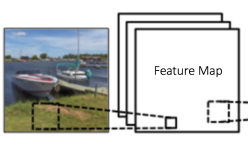
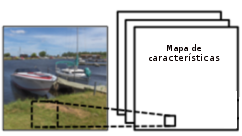
tercera revision

diff --git a/secciones/MarcoTeorico.tex b/secciones/MarcoTeorico.tex
@@ -495,23 +495,15 @@ El modelo obtenido debe aprender a generalizar el comportamiento de modo que al 
 
 Las \ac{cnn} son una clase de redes neuronales  similares a las redes neuronales multicanal, su principal ventaja es que cada parte de la red se le entrena para realizar una tarea, esto reduce significativamente el número de capas, por lo que el entrenamiento es más rápido. Las redes neuronales convolucionales son muy potentes para el análisis de imágenes, debido a que son capaces de detectar características simples como por ejemplo detención de bordes, lineas, etc y componer en características más complejas. Las \ac{cnn} trabajan modelando de forma consecutiva pequeñas piezas de información (sub-regiones) de la imagen; combinando esta información de salida en las capas mas profundas, tales características pude ser fusionada pre-procesando con el fin de detectar características de mayor orden \citep{murphy}.
 
-El conjunto de salidas de las neuronas en un plano se denomina \textit{mapa de características} (ver \ref{Fig: fmaps}). Cada unidad  del mapa de característica es lo que llamamos  \textit{\textbf{feature vector}}. Una capa convolucional completa está compuesta de varios mapas de características (con diferentes 
+El conjunto de salidas de las neuronas en un plano se denomina \textit{mapa de características}. Cada unidad  del mapa de característica es lo que llamamos  \textit{\textbf{feature vector}}. Una capa convolucional completa está compuesta de varios mapas de características (con diferentes 
 \textit{feature vector}), de modo que se pueden extraer múltiples características en cada ubicación \citep{cnns}.
 
-\begin{figure}[H]
- \centering
-  \includegraphics[scale=1,keepaspectratio=true,clip=true]{imagenes/MarcoTeorico/fmaps.png}
-  \caption{Ejemplo de mapa de características, (Adaptado de: \citep{cnnsarticle})}
-	\label{Fig: fmaps}
-\end{figure}
+El tamaño del mapa de características se controla mediante tres parámetros \citep{cnnsarticle}: \textit{depth (profundidad)}: corresponde al numero de filtros usados para la operación de convolución como veremos mas adelante (Sec:\ref{sub:convolucion}); por ejemplo la primera capa toma la imagen original, luego diferentes neuronas a partir de la profundidad de la red se activa realizando operaciones como puede ser detección de bordes, color, etc.También tenemos el parámetro \textit{stride (paso)}: es el número de píxeles por los que se desliza nuestra matriz de filtro sobre la matriz de entrada. Tener un stride grande producirá mapas de características más pequeños. Por ultimo tenemos el parámetro \textit{zero-padding (cero-relleno)}, a menudo es conveniente rellenar la matriz de entrada con ceros alrededor del borde, de modo que podamos aplicar el filtro a los elementos fronterizos de nuestra matriz de imagen de entrada; una buena característica de cero relleno es que nos permite controlar el tamaño de los mapas de características.
 
-El tamaño del mapa de características se controla mediante tres parámetros \citep{cnnsarticle}: \textit{depth (profundidad)}: corresponde al numero de filtros usados para la operación de convolución como veremos mas adelante (Sec:\ref{sub:convolucion}). Por ejemplo la primera capa toma la imagen original, luego diferentes neuronas a partir de la profundidad de la red se activa realizando operaciones como puede ser detección de bordes, color, etc; es decir a partir de la imagen de entrada aplicar por ejemplo detección de bordes, color, etc.También tenemos el parámetro \textit{stride (paso)}: es el número de píxeles por los que se desliza nuestra matriz de filtro sobre la matriz de entrada. Tener un stride grande producirá mapas de características más pequeños. Por ultimo tenemos el parámetro \textit{zero-padding (cero-relleno)}: A menudo, es conveniente rellenar la matriz de entrada con ceros alrededor del borde, de modo que podamos aplicar el filtro a los elementos fronterizos de nuestra matriz de imagen de entrada. Una buena característica de cero relleno es que nos permite controlar el tamaño de los mapas de características.
+La mayoría de las \ac{cnn} tienen arquitecturas similares como se muestra en la figura \ref{Fig:cnn_network}, donde hay una operación de entrada de una imagen, una serie de operaciones de  \textit{convolucion} mas  \textit{pooling} seguidas de las ultimas capas \textit{fully conected}; en las próximas secciones se entrara mas detalle. 
 
-La mayoría de las \ac{cnn} tienen arquitecturas similares como se muestra en la figura \ref{Fig:cnn_network}, donde hay una operación de entrada de una imagen, una serie de operaciones de  \textit{convolucion} mas  \textit{pooling} seguidas de las ultimas capas \textit{fully conected}; en las próximas secciones se brindara mas detalle. 
-
-\begin{figure}[H]
- \centering
-  \includegraphics[scale=0.15,keepaspectratio=true,clip=true]{imagenes/MarcoTeorico/cnn_intuition.png}
+\begin{figure}[H]\centering
+  \includegraphics[scale=0.2,keepaspectratio=true,clip=true]{imagenes/MarcoTeorico/cnn_intuition.png}
   \caption{Arquitectura simplificada CNN \\ (Adaptado de:https://towardsdatascience.com/understanding-input-and-output-shapes-in-convolution).} \label{Fig:cnn_network}
 \end{figure}
 
@@ -522,7 +514,7 @@ La mayoría de las \ac{cnn} tienen arquitecturas similares como se muestra en la
 
 \subsubsection{Convolución}\label{sub:convolucion}
 %https://www.superdatascience.com/blogs/convolutional-neural-networks-cnn-step-1-convolution-operation
-Las principales operaciones de una \ac{cnn} están basadas en operaciones de convolución \ref{eq:conv2}, la convolución son operaciones de producto y sumas entre las capas y los $n $ filtros (kernel) que generan como se mencionó anteriormente, un mapa de característica. La ventaja es que el mismo filtro permite extraer la misma característica en cualquier parte de la entrada, con esto se consigue reducir el número de conexiones y el número de parámetros a entrenar.
+Las principales operaciones de una \ac{cnn} están basadas en operaciones de convolución \ref{eq:conv2}, la convolución son operaciones de producto y sumas entre las capas y los $n $ filtros (kernel) que generan  un mapa de característica como se mencionó anteriormente. La ventaja es que el mismo filtro permite extraer la misma característica en cualquier parte de la entrada, con esto se consigue reducir el número de conexiones y el número de parámetros a entrenar.
 
 \begin{equation}\label{eq:conv2}
     G[i, j] = \sum_{u=-k}^k \sum_{v=-k}^k H[u, v] F[i-u, j-v]
@@ -582,7 +574,7 @@ Una vez que los \textit{mapas de característica} se extraen de la capa de convo
 
 \begin{figure}[H]
  \centering
-  \includegraphics[scale=0.2,keepaspectratio=true,clip=true]{imagenes/MarcoTeorico/ReLU_1.png}
+  \includegraphics[scale=0.25,keepaspectratio=true,clip=true]{imagenes/MarcoTeorico/ReLU_1.png}
   \caption{ReLU (Rectified Linear Unit) \\ (Adaptado de: https://towardsdatascience.com/activation-functions-neural-networks)} \label{Fig:relu}
 \end{figure}
 
@@ -617,7 +609,7 @@ Básicamente, una capa \textit{fully conected} observa características de alto 
 
 \begin{figure}[H]
  \centering
-  \includegraphics[height=5cm,keepaspectratio=true,clip=true]{imagenes/MarcoTeorico/fully_conected.png}
+  \includegraphics[scale=1,keepaspectratio=true,clip=true]{imagenes/MarcoTeorico/fully_conected.png}
   \caption{Fully conected layer \\ (Adaptado de: https://adeshpande3.github.io)} \label{Fig:fully_conected}
 \end{figure}
 
@@ -636,7 +628,7 @@ La arquitectura de una red neuronal es la forma en que se organizan  las neurona
 
 \begin{figure}[H]
  \centering
-  \includegraphics[scale=0.3,keepaspectratio=true,clip=true]{imagenes/MarcoTeorico/AlexNet-1.png}
+  \includegraphics[scale=0.4,keepaspectratio=true,clip=true]{imagenes/MarcoTeorico/AlexNet-1.png}
   \caption{Arquitectura AlexNet \\ (Adaptado de: \citep{alexnet})}
 	\label{Fig:alexnet}
 \end{figure}
@@ -646,7 +638,7 @@ La arquitectura de una red neuronal es la forma en que se organizan  las neurona
 
 \begin{figure}[H]
  \centering
-  \includegraphics[scale=0.4,keepaspectratio=true,clip=true]{imagenes/MarcoTeorico/vgg.png}
+  \includegraphics[scale=0.6,keepaspectratio=true,clip=true]{imagenes/MarcoTeorico/vgg.png}
   \caption{Arquitectura VGG,\\ (Adaptado de: \citep{vgg}).}
 	\label{Fig:vgg}
 \end{figure}
@@ -654,7 +646,7 @@ La arquitectura de una red neuronal es la forma en que se organizan  las neurona
 \par \textbf{GoogleNet} \citep{googlenet} EL principal objetivo de esta arquitectura desarrollada es mejorar la utilización de recursos computacionales, esto lo logra definiendo módulos llamados, \textit{módulos inception}, y aumentando la profundidad y el ancho de la red. 
 \begin{figure}[H]
  \centering
-  \includegraphics[height=5cm,keepaspectratio=true,clip=true]{imagenes/MarcoTeorico/inception-1.jpg}
+  \includegraphics[scale=0.5,keepaspectratio=true,clip=true]{imagenes/MarcoTeorico/inception-1.jpg}
   \caption{Arquitectura GoogleNet: modulo Inception \\ (Adaptado de: \citep{googlenet})}
 	\label{Fig:inception}
 \end{figure}
@@ -706,47 +698,44 @@ Luego de generar las regiones propuestas extraemos las características de la im
 
 \subsection{Regions Proposal} \label{sub:regions-proposal}
 
-Regions proposal son un conjunto de métodos que permiten extraer regiones dentro de la imagen siguiendo algunas características similares como contorno, color, etc. El proceso metodológico básico es el siguiente: dada una imagen de entrada, este método busca generar un conjunto de regiones candidatas que son localizadas en un \textit{bounding box}, un \textit{bounding box} es la región de interés, que probablemente contengan objetos de interés para la detección \ref{Fig: propsalregion} permiten tener ventanas(bounding box) de diferentes escalas. Estos objetos de interés detectados a partir del método son los que posteriormente vamos a clasificar.
+Regions proposal son un conjunto de métodos que permiten extraer regiones dentro de la imagen siguiendo algunas características similares como contorno, color, etc. El proceso metodológico básico es el siguiente: dada una imagen de entrada por medio de algún método se busca generar un conjunto de regiones candidatas que serán localizadas en un \textit{bounding box}, un \textit{bounding box} es la región de interés, que probablemente alguna de esas regiones contengan algún objetos de interés para la detección \ref{Fig: propsalregion}; estos métodos permiten tener ventanas(bounding box) de diferentes escalas los que nos ayuda a poder localizar objetos de diferentes tamaños, estos objetos de interés detectados serán los que posteriormente vamos a utilizar para realizar la clasificación. Como podemos observar en la figura \ref{Fig: propsalregion} como se generan los \textit{bounding boxes} en la imagen.
 
-\begin{figure}[H]
- \centering
-  \includegraphics[scale=0.4,keepaspectratio=true,clip=true]{imagenes/MarcoTeorico/regionProposal.png}
+\begin{figure}[H] \centering
+  \includegraphics[scale=0.6,keepaspectratio=true,clip=true]{imagenes/MarcoTeorico/regionProposal.png}
   \caption{Ejemplo de regiones propuestas \\ (Adaptado de:\citep{regions_proposal_gr}).}
 	\label{Fig: propsalregion}
 \end{figure}
 
-Existen diversos técnicas para calcular las regiones candidatas \citep{proposal}; en esta tesis se realizo pruebas con los  los métodos \textit{Edges Boxes} y \textit{Selective Search}.
+En el estado del arte existen diversas técnicas para obtener las regiones candidatas \citep{proposal}, en esta tesis se realizo solo se realizaron pruebas con los  los métodos de: \textit{Edges Boxes} y \textit{Selective Search}. El método de Edges Boxes  \citep{edges} es un método para la generación de regiones candidatas a partir de los bordes detectados; utilizando estructuras de datos eficientes, se pueden evaluar millones de boxes (cajas) candidatas en una fracción de segundo en donde los bordes proporcionan una representación simplificada pero informativa de una imagen. Los algoritmos para la detección de bordes tradicionales utilizan una variedad de métodos para calcular gradientes de color, en el caso de los nuevos enfoques además utilizan múltiples características como entrada incluyendo brillo, color, textura y  escalas de la imagen. Este método evalúa las cajas candidatas utilizando un enfoque de ventana deslizante, similar a la detección de objetos tradicionales \textit{sliding windows} en el cual para cada posición del objeto evaluamos, escala y relación generando una puntuación (score) que indica la probabilidad de que un objeto esté presente en el bounding box.
 
-\subsubsection*{Edges Boxes} \label{sub:edgesboxes}
+%\subsubsection*{Edges Boxes} \label{sub:edgesboxes}En la figura \ref{Fig: edges} podemos ver de manera simplificada los pasos del método;  en la parte inferior de la imagen \ref{Fig: edges} vemos que luego de varios operaciones identifica regiones que podrían ser de interés.
 
-Edges Boxes  \citep{edges} es un método para la generación de regiones candidatas a partir de los bordes detectados. Utilizando estructuras de datos eficientes, se pueden evaluar millones de boxes (cajas) candidatas en una fracción de segundo en donde los bordes proporcionan una representación simplificada pero informativa de una imagen. Los algoritmos para la detección de bordes tradicionales utilizan una variedad de métodos para calcular gradientes de color, en el caso de los nuevos enfoques además utilizan múltiples características como entrada incluyendo brillo, color, textura y  escalas de la imagen. 
+%\begin{figure}[H]
+% \centering
+%  \includegraphics[scale=0.3,keepaspectratio=true,clip=true]{imagenes/MarcoTeorico/edges.png}
+%  \caption{Ejemplo proceso detección de bordes \\ (Adaptado de:\citep{edges})}
+%	\label{Fig: edges}
+%\end{figure}
 
-En la figura \ref{Fig: edges} podemos ver de manera simplificada los pasos del método;  en la parte inferior de la imagen \ref{Fig: edges} vemos que luego de varios operaciones identifica regiones que podrían ser de interés.
-
-\begin{figure}[H]
- \centering
-  \includegraphics[scale=0.21,keepaspectratio=true,clip=true]{imagenes/MarcoTeorico/edges.png}
-  \caption{Ejemplo proceso detección de bordes \\ (Adaptado de:\citep{edges})}
-	\label{Fig: edges}
-\end{figure}
-
-Este método evalúa las cajas candidatas utilizando un enfoque de ventana deslizante, similar a la detección de objetos tradicionales \textit{sliding windows}; en el cual para cada posición del objeto evaluamos, escala y relación generando una puntuación (score) que indica la probabilidad de que un objeto esté presente en el bounding box.
-
-
-\subsubsection*{Selective Search} \label{sub:selectivesearch}
-Selective Search \citep{selectivesearch} es un método de \ac{rp} que  permite obtener regiones candidatas realizando una búsqueda exhaustiva aplicando segmentación sobre la imagen. La segmentación  en procesamiento de imágenes consiste en dividirla en grupo de píxeles u objeto. El objetivo es simplificar la representación logrando que sea mas significativa, fácil de analizar y capturar todas las ubicaciones de objetos posibles; en lugar de una sola técnica para generar ubicaciones , diversifica la  búsqueda y usa  una variedad de particiones de imágenes complementarias para tratar con tantas condiciones de imagen como sea posible.
+El método de \textit{Selective Search} \citep{selectivesearch} es un método de \ac{rp} que  permite obtener regiones candidatas realizando una búsqueda exhaustiva aplicando segmentación sobre la imagen. La segmentación  en procesamiento de imágenes consiste en dividirla en grupo de píxeles u objeto. El objetivo es simplificar la representación logrando que sea mas significativa, fácil de analizar y capturar todas las ubicaciones de objetos posibles; en lugar de una sola técnica para generar ubicaciones , diversifica la  búsqueda y usa  una variedad de particiones de imágenes complementarias para tratar con tantas condiciones de imagen como sea posible.
 Las estrategias usadas en este método son: \textit{Capturar todas las escalas}: los objetos pueden estar en cualquier escala de la imagen, es por esto que se toma en cuenta todas las escalas.\textit{Diversificación}: No existe una sola estrategia sino que una región puede formar un objeto solo por color o textura.\textit{Computo Rápido}: Esta es una de las estrategias principales debido a que el objetivo es producir un conjunto de regiones propuesta de manera eficiente y sin un costo computacional alto.
 
 \begin{figure}[H]
  \centering
-  \includegraphics[scale=0.3,keepaspectratio=true,clip=true]{imagenes/MarcoTeorico/selectivesearch.png}
+  \includegraphics[scale=0.4,keepaspectratio=true,clip=true]{imagenes/MarcoTeorico/selectivesearch.png}
   \caption{Ejemplo segmentación con \textit{Selective Search} \\(Adaptado de:\citep{selectivesearch}).}
 	\label{Fig: overlapping}
 \end{figure}
 
-\subsection{Extracción de características}\label{sub:features-extraction}
+Luego de las extracciones de regiones candidatas obtenidas por algunos de los métodos nombrados anteriormente, debemos extraer las características significativas que representan cada región dada. Una  característica es algo que se diferencia del resto en un conjunto de datos, esa diferencia nos permite agruparlas de acuerdo a alguna similitud entre las mismas. El objetivo principal de la  extracción de características, \textit{feature extraction} por su denominación en ingles, es representar los datos como un conjunto reducido de característica que describen de manera eficiente sus principales atributos. Para poder realizar esta tarea utilizamos  las redes neuronales convolucionales (Sec:\ref{sub:cnn}) que  permiten extraer información de la imagen para luego utilizar estos atributos obtenidos y agruparlos según algún criterio previamente establecido. 
 
-Luego de las extracciones de regiones candidatas obtenidas por algunos de los métodos nombrados en la sección anterior (Sec:\ref{sub:regions-proposal}), debemos extraer las características significativas que representan cada región dada. Una  característica es algo que se diferencia del resto en un conjunto de datos, esa diferencia nos permite agruparlas de acuerdo a alguna similitud entre las mismas. El objetivo principal de la  extracción de características, \textit{feature extraction} por su denominación en ingles, es representar los datos como un conjunto reducido de característica que describen de manera eficiente sus principales atributos. Para poder realizar esta tarea utilizamos  las redes neuronales convolucionales (Sec:\ref{sub:cnn}) que  permiten extraer información de la imagen para luego utilizar estos atributos obtenidos y agruparlos según algún criterio establecido. 
+
+
+%\subsubsection*{Selective Search} \label{sub:selectivesearch}
+
+%\subsection{Extracción de características}\label{sub:features-extraction}
+
+%Luego de las extracciones de regiones candidatas obtenidas por algunos de los métodos nombrados en la sección anterior (Sec:\ref{sub:regions-proposal}), debemos extraer las características significativas que representan cada región dada. Una  característica es algo que se diferencia del resto en un conjunto de datos, esa diferencia nos permite agruparlas de acuerdo a alguna similitud entre las mismas. El objetivo principal de la  extracción de características, \textit{feature extraction} por su denominación en ingles, es representar los datos como un conjunto reducido de característica que describen de manera eficiente sus principales atributos. Para poder realizar esta tarea utilizamos  las redes neuronales convolucionales (Sec:\ref{sub:cnn}) que  permiten extraer información de la imagen para luego utilizar estos atributos obtenidos y agruparlos según algún criterio establecido. 
 
 
 \subsection{Non-Maxima Suppression}\label{sub:nonmaximumsuppression}
@@ -755,7 +744,7 @@ Non-Maxima Suppression es un post-procesamiento muy importante en el contexto de
 
 \begin{figure}[H]
  \centering
-  \includegraphics[scale=0.3,keepaspectratio=true,clip=true]{imagenes/MarcoTeorico/overlapMat.png}
+  \includegraphics[scale=0.4,keepaspectratio=true,clip=true]{imagenes/MarcoTeorico/overlapMat.png}
   \caption{Superposición entre regiones \\ (Adaptado de:https://www.mathworks.com/help/vision/ ).} \label{Fig: overlapping}
 \end{figure}
 
@@ -763,7 +752,7 @@ Para poder eliminar detecciones redundantes calculamos un valor denominado  \tex
 
 \begin{figure}[H]
  \centering
-  \includegraphics[scale=0.2,keepaspectratio=true,clip=true]{imagenes/MarcoTeorico/overlapping.png}
+  \includegraphics[scale=0.3,keepaspectratio=true,clip=true]{imagenes/MarcoTeorico/overlapping.png}
   \caption{IoU con diferentes valores \\ (Adaptado de:\citep{bishop}).}\label{Fig: interseccion}
 \end{figure}
 
@@ -773,7 +762,7 @@ En un pipeline de detección las técnicas de non-maxima supression se utilizan 
 
 \begin{figure}[H]
  \centering
-  \includegraphics[scale=0.3,keepaspectratio=true,clip=true]{imagenes/MarcoTeorico/nms.png}
+  \includegraphics[scale=0.4,keepaspectratio=true,clip=true]{imagenes/MarcoTeorico/nms.png}
   \caption{Uso de Non-maxima supression \\ (Adaptado de: \citep{nms2}).}\label{Fig: nonmaximumsuppression}
 \end{figure}
 
